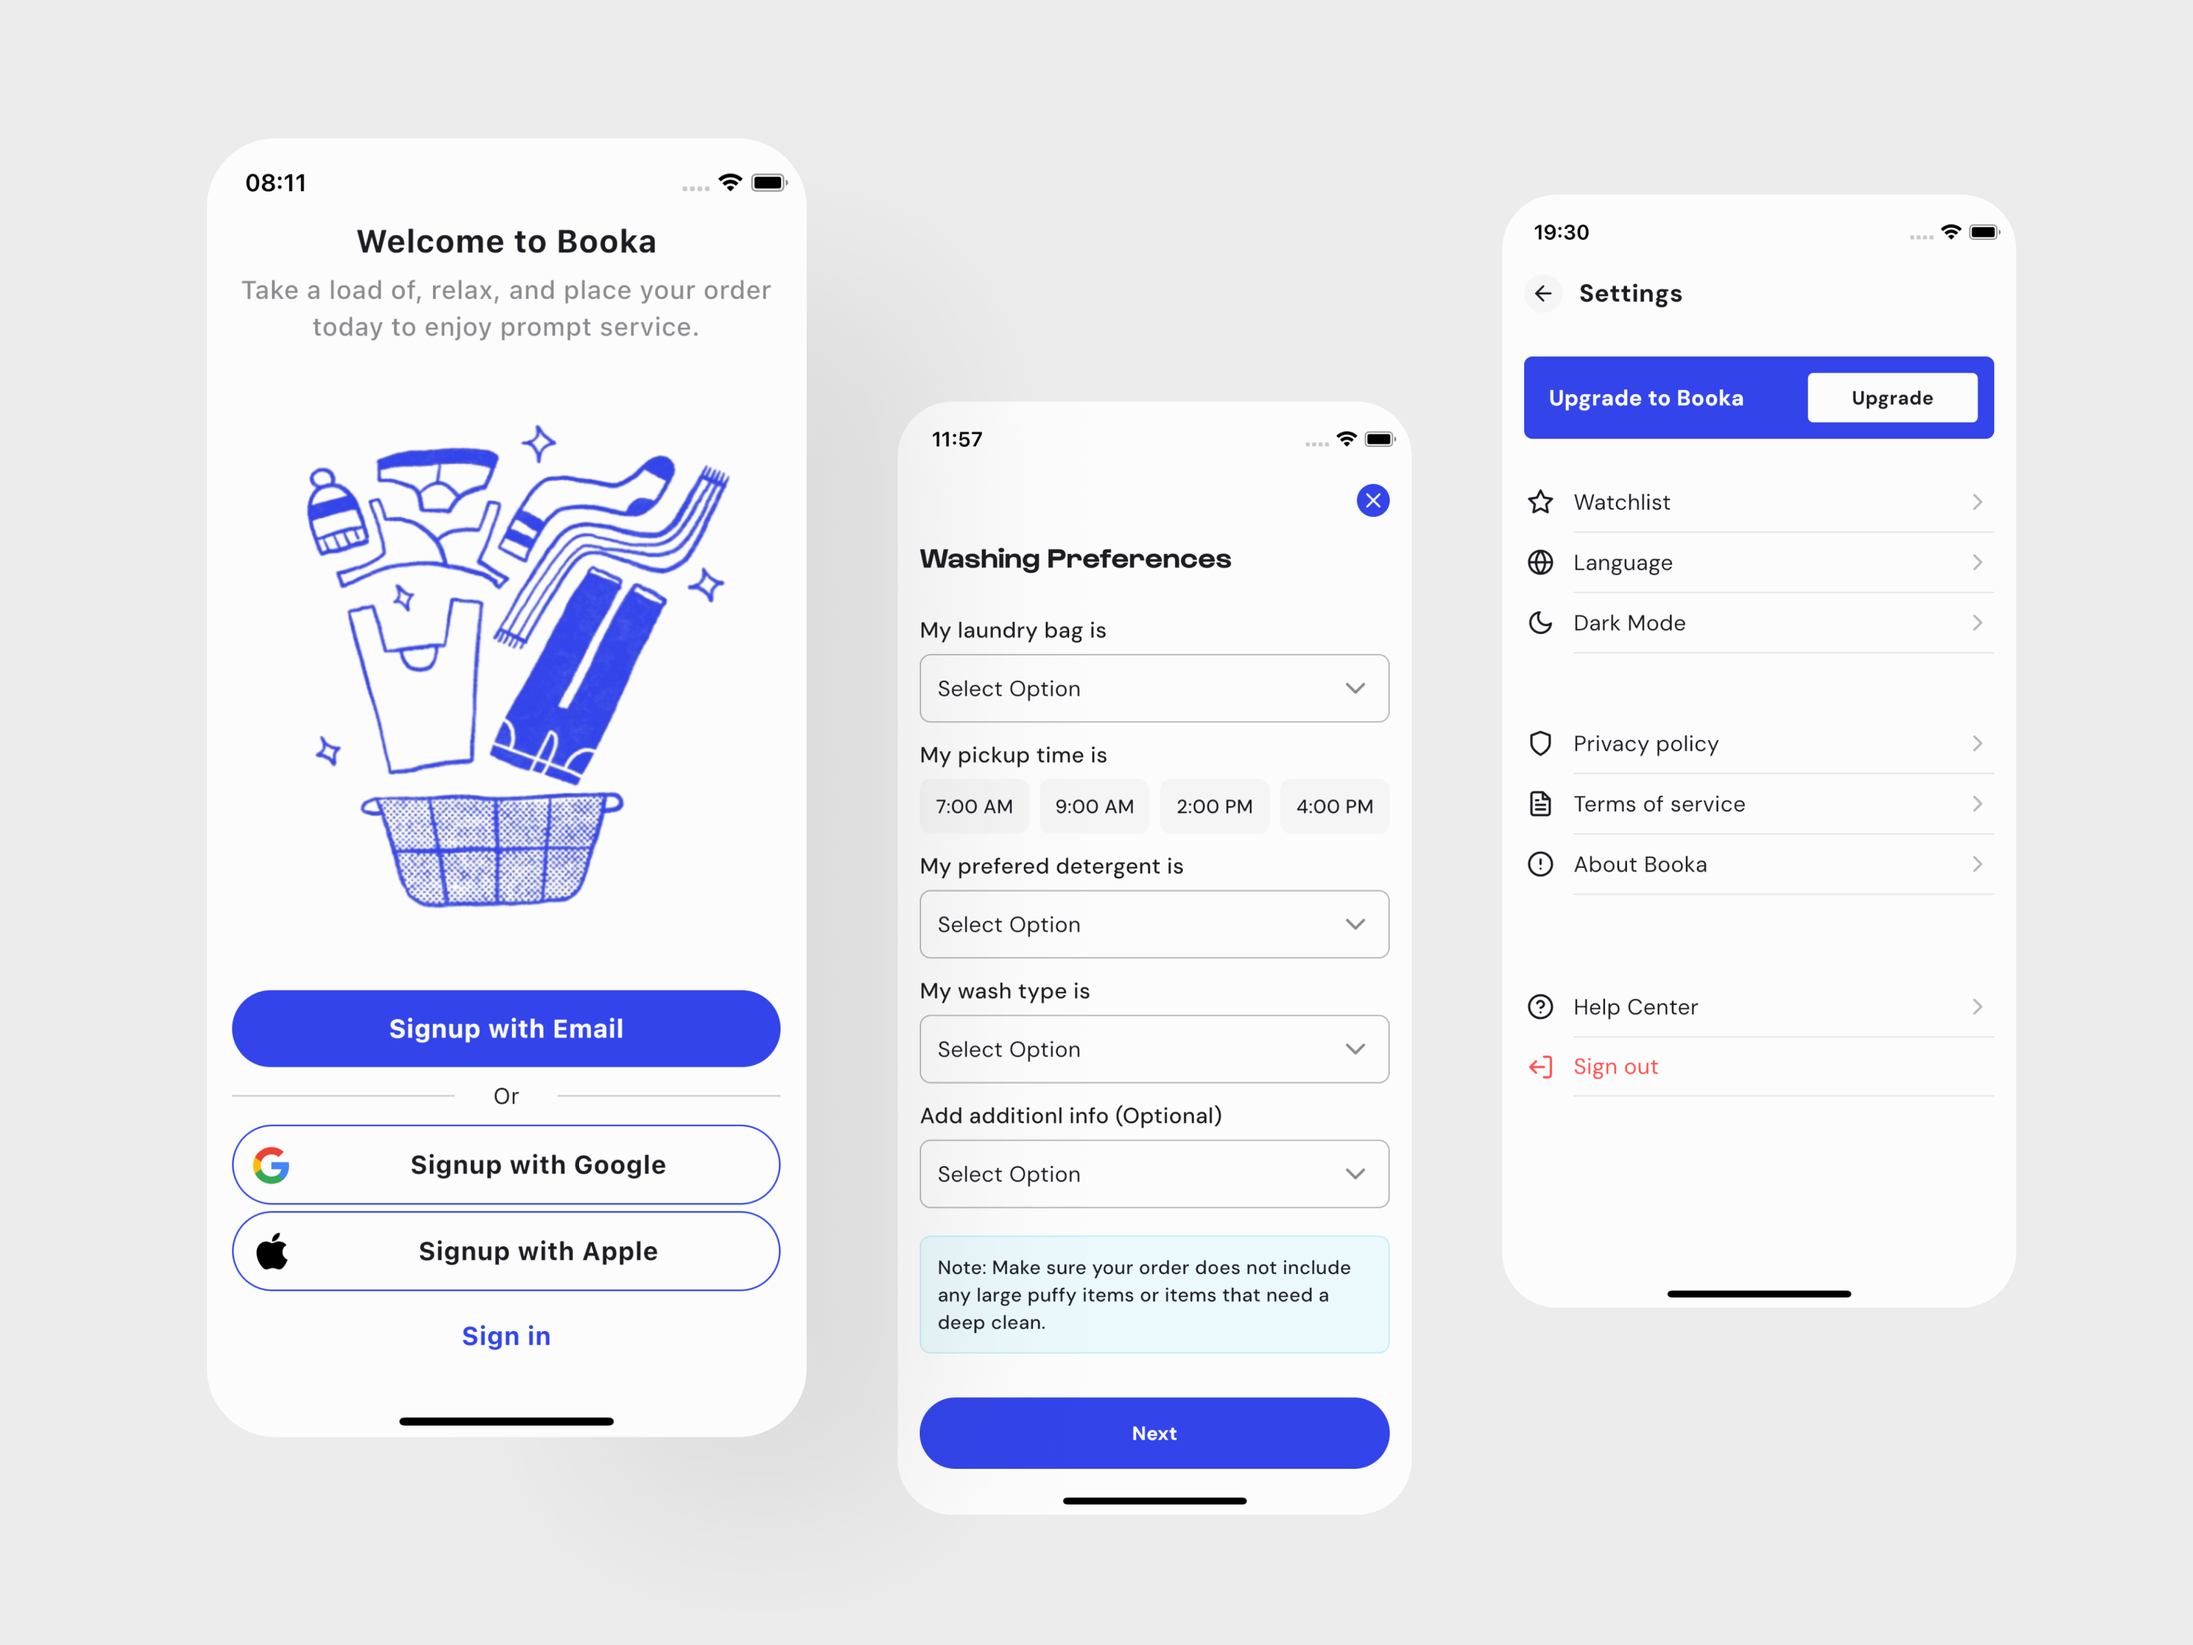
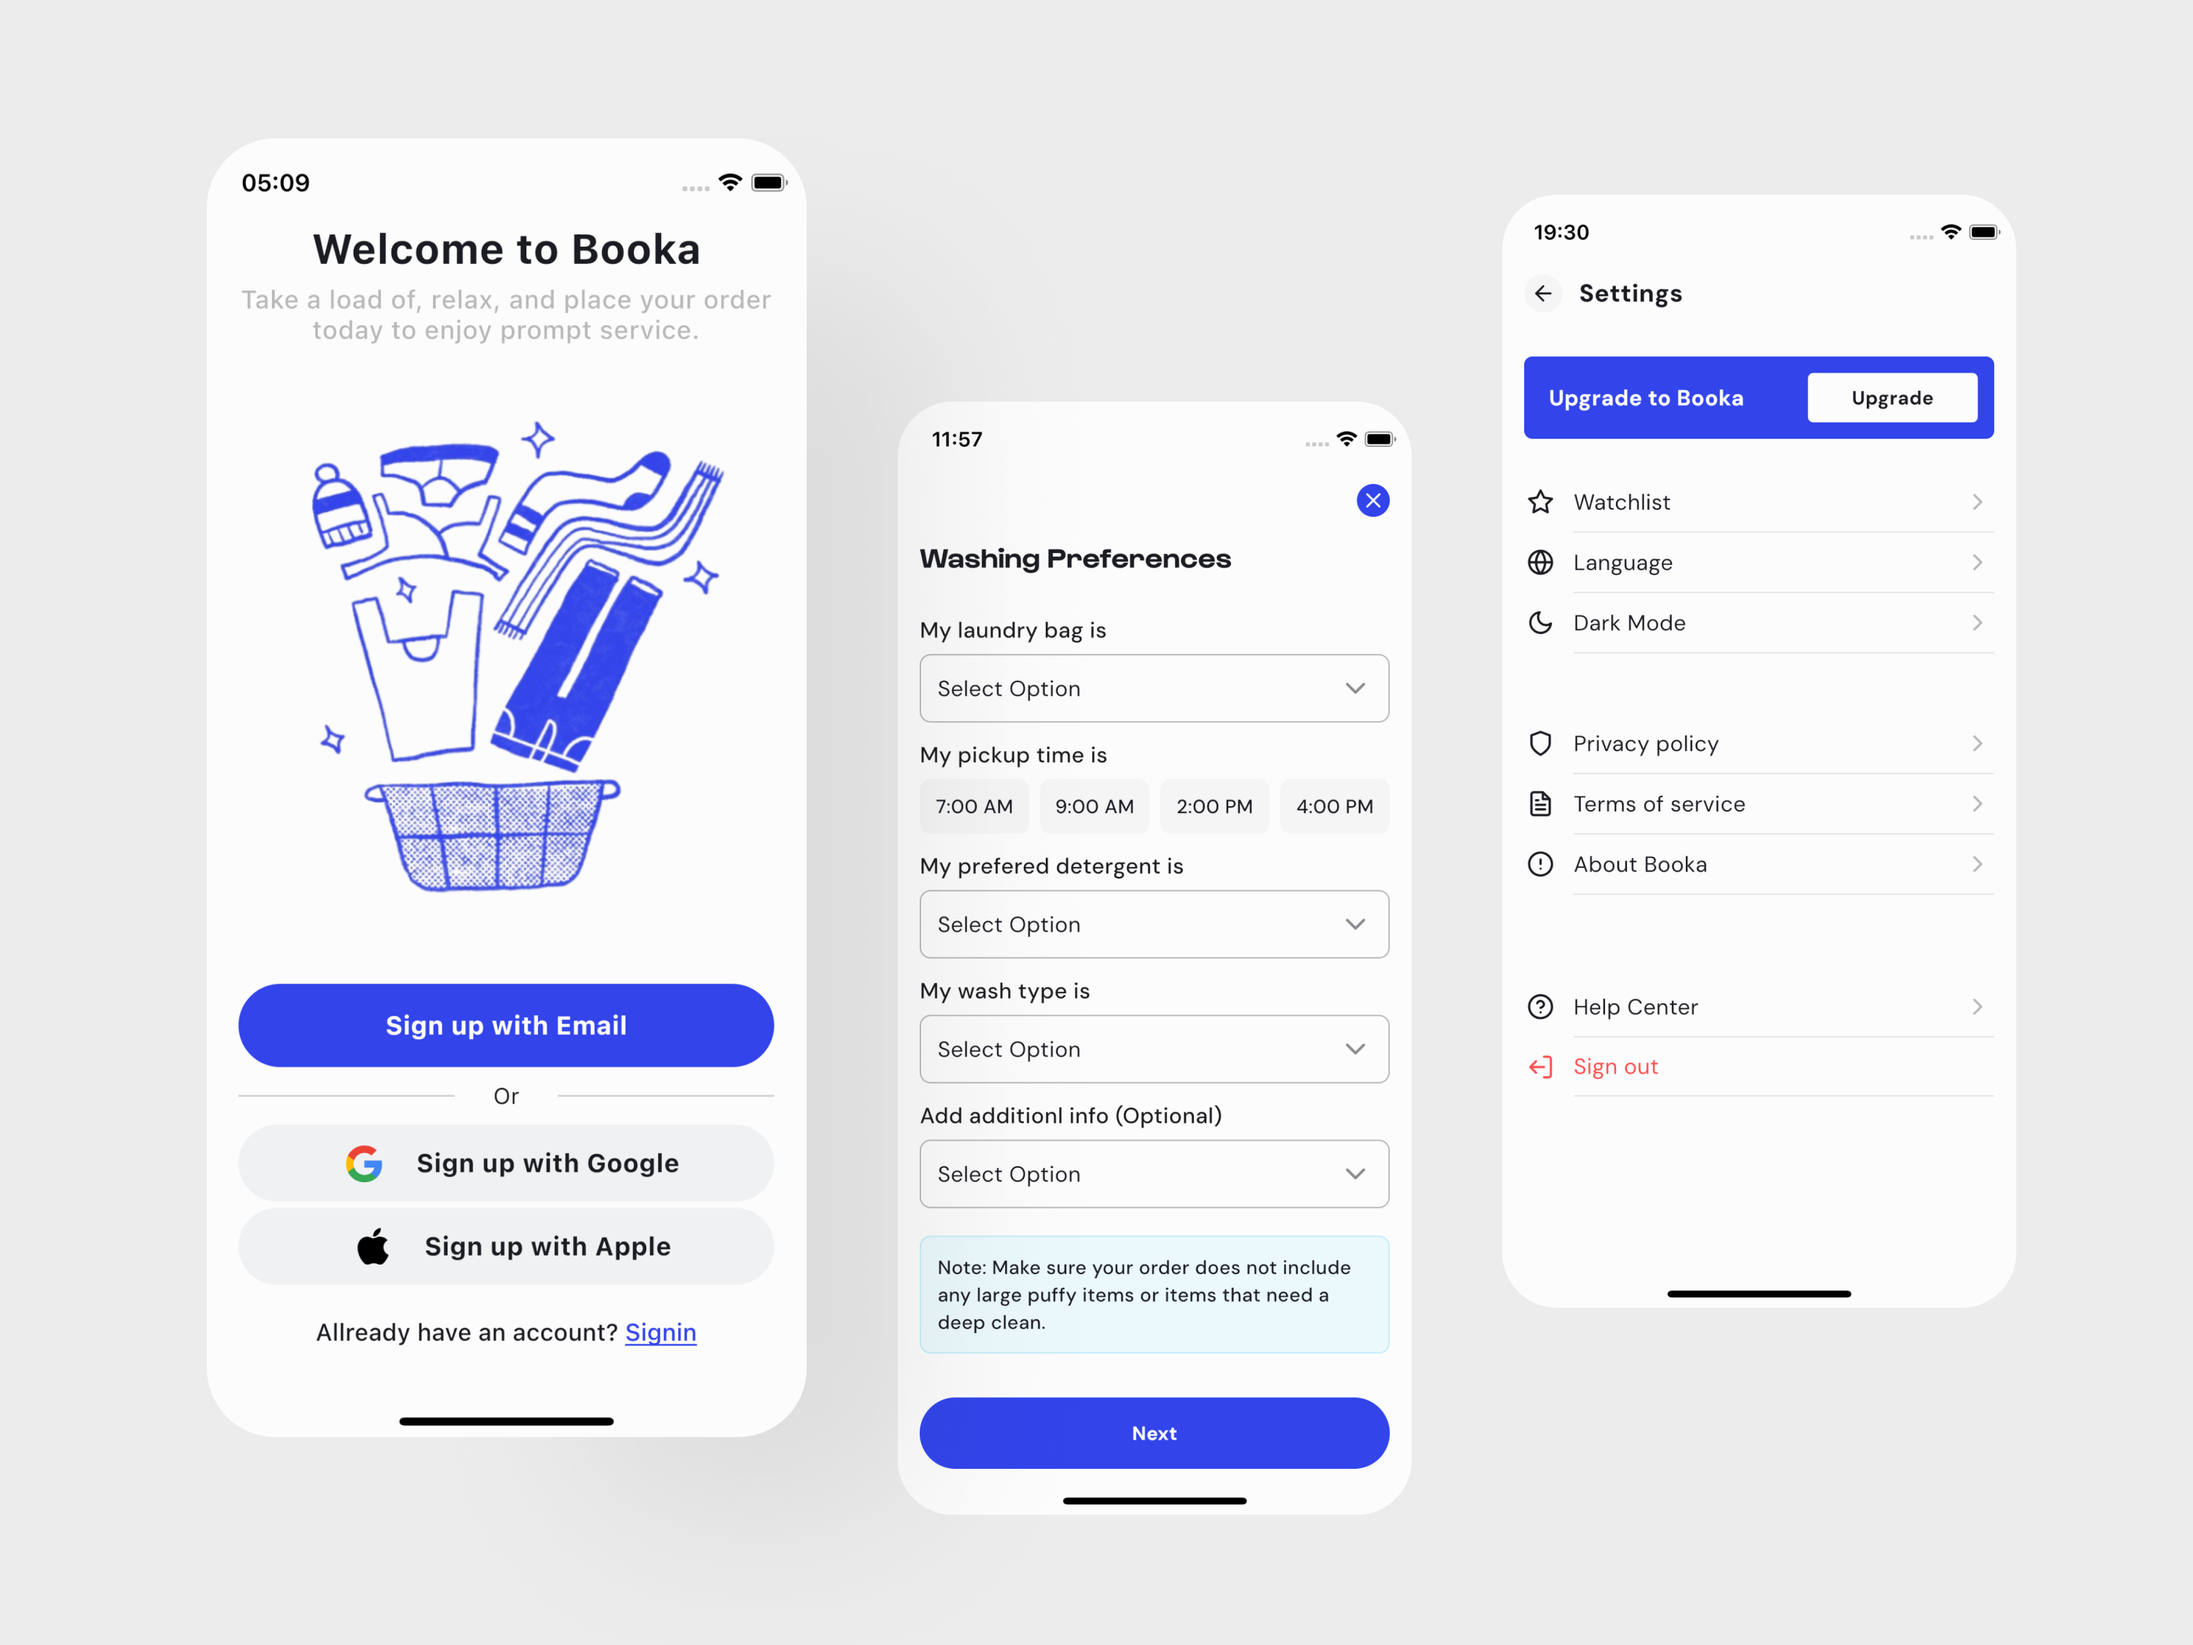
Update

diff --git a/lib/features/onboarding/presentation/pages/splash_page.dart b/lib/features/onboarding/presentation/pages/splash_page.dart
@@ -5,8 +5,8 @@ import 'package:booka_service_app/features/onboarding/presentation/widgets/apple
 import 'package:booka_service_app/features/onboarding/presentation/widgets/divider_section.dart';
 import 'package:booka_service_app/features/onboarding/presentation/widgets/email_button.dart';
 import 'package:booka_service_app/features/onboarding/presentation/widgets/google_button.dart';
-import 'package:booka_service_app/features/onboarding/presentation/widgets/signin_button.dart';
 import 'package:booka_service_app/features/signin/presentation/pages/signin_page.dart';
+import 'package:flutter/gestures.dart';
 import 'package:flutter/material.dart';
 
 class SplashPage extends StatelessWidget {
@@ -23,37 +23,29 @@ class SplashPage extends StatelessWidget {
             Expanded(
               child: Padding(
                 padding: EdgeInsets.only(
-                    left: 16, right: 16, bottom: 6, top: topPadding),
+                    left: 20, right: 20, bottom: 6, top: topPadding),
                 child: Column(
                   mainAxisAlignment: MainAxisAlignment.spaceBetween,
                   children: [
                     Column(
                       children: [
-                        Container(
-                          child: const Center(
-                            child: Text(
-                              'Welcome to Booka',
-                              style: TextStyle(
-                                fontSize: 20,
-                                fontWeight: FontWeight.bold,
-                                color: kColorBlack,
-                              ),
-                            ),
+                        const Text(
+                          'Welcome to Booka',
+                          style: TextStyle(
+                            fontSize: 26,
+                            fontWeight: FontWeight.bold,
+                            color: kColorBlack,
                           ),
                         ),
                         const SizedBox(height: 4),
-                        Container(
-                          child: Center(
-                            child: Text(
-                              'Take a load of, relax, and place your order today to enjoy prompt service.',
-                              style: TextStyle(
-                                fontSize: 16,
-                                fontWeight: FontWeight.w500,
-                                color: kColorBlack.withOpacity(0.5),
-                              ),
-                              textAlign: TextAlign.center,
-                            ),
-                          ),
+                        Text(
+                          'Take a load of, relax, and place your order today to enjoy prompt service.',
+                          style: TextStyle(
+                              fontSize: 16,
+                              fontWeight: FontWeight.w500,
+                              color: kColorBlack.withOpacity(0.3),
+                              height: 0),
+                          textAlign: TextAlign.center,
                         ),
                       ],
                     ),
@@ -76,8 +68,8 @@ class SplashPage extends StatelessWidget {
                     ),
                     const SizedBox(height: 12),
                     Column(
-                      mainAxisAlignment: MainAxisAlignment.end,
                       children: [
+                        const SizedBox(height: 8),
                         const EmailButton(),
                         const SizedBox(height: 8),
                         const DividerSection(),
@@ -86,11 +78,36 @@ class SplashPage extends StatelessWidget {
                         const SizedBox(height: 4),
                         const AppleButton(),
                         const SizedBox(height: 4),
-                        SigninButton(
-                          onTap: () {
-                            Navigator.of(context).push(MaterialPageRoute(
-                                builder: (context) => const SigninPage()));
-                          },
+                        SizedBox(
+                          height: 52,
+                          child: Center(
+                            child: RichText(
+                              text: TextSpan(
+                                style: const TextStyle(
+                                  fontSize: 15,
+                                  fontWeight: FontWeight.w500,
+                                  color: kColorBlack,
+                                ),
+                                text: 'Allready have an account? ',
+                                children: [
+                                  TextSpan(
+                                    recognizer: TapGestureRecognizer()
+                                      ..onTap = () {
+                                        Navigator.of(context).push(
+                                            MaterialPageRoute(
+                                                builder: (context) =>
+                                                    const SigninPage()));
+                                      },
+                                    text: 'Signin',
+                                    style: const TextStyle(
+                                      color: kColorWater,
+                                      decoration: TextDecoration.underline,
+                                    ),
+                                  ),
+                                ],
+                              ),
+                            ),
+                          ),
                         ),
                       ],
                     ),

diff --git a/lib/features/onboarding/presentation/widgets/google_button.dart b/lib/features/onboarding/presentation/widgets/google_button.dart
@@ -29,17 +29,15 @@ class GoogleButton extends StatelessWidget {
       },
       child: Container(
         decoration: BoxDecoration(
-            borderRadius: BorderRadius.circular(51),
-            border: Border.all(
-                strokeAlign: BorderSide.strokeAlignInside,
-                color: kColorWater,
-                width: 1)),
+          color: kColorDisabled,
+          borderRadius: BorderRadius.circular(51),
+        ),
         child: Padding(
           padding: const EdgeInsets.only(left: 4, right: 4, top: 4, bottom: 4),
           child: Row(
+            mainAxisAlignment: MainAxisAlignment.center,
             children: [
               Column(
-                mainAxisAlignment: MainAxisAlignment.center,
                 children: [
                   SizedBox(
                     height: 40,
@@ -50,18 +48,17 @@ class GoogleButton extends StatelessWidget {
                   ),
                 ],
               ),
-              const Expanded(
-                child: SizedBox(
-                  height: 40,
-                  child: Align(
-                    alignment: Alignment.center,
-                    child: Text(
-                      'Signup with Google',
-                      style: TextStyle(
-                        fontSize: 16,
-                        fontWeight: FontWeight.bold,
-                        color: kColorBlack,
-                      ),
+              const SizedBox(width: 12),
+              const SizedBox(
+                height: 40,
+                child: Align(
+                  alignment: Alignment.center,
+                  child: Text(
+                    'Sign up with Google',
+                    style: TextStyle(
+                      fontSize: 16,
+                      fontWeight: FontWeight.bold,
+                      color: kColorBlack,
                     ),
                   ),
                 ),

diff --git a/lib/features/onboarding/presentation/widgets/apple_button.dart b/lib/features/onboarding/presentation/widgets/apple_button.dart
@@ -11,19 +11,15 @@ class AppleButton extends StatelessWidget {
   Widget build(BuildContext context) {
     return Container(
       decoration: BoxDecoration(
+        color: kColorDisabled,
         borderRadius: BorderRadius.circular(51),
-        border: Border.all(
-          strokeAlign: BorderSide.strokeAlignInside,
-          color: kColorWater,
-          width: 1,
-        ),
       ),
       child: Padding(
         padding: const EdgeInsets.only(left: 4, right: 4, top: 4, bottom: 4),
         child: Row(
+          mainAxisAlignment: MainAxisAlignment.center,
           children: [
             Column(
-              mainAxisAlignment: MainAxisAlignment.center,
               children: [
                 SizedBox(
                   height: 40,
@@ -34,18 +30,17 @@ class AppleButton extends StatelessWidget {
                 ),
               ],
             ),
-            const Expanded(
-              child: SizedBox(
-                height: 40,
-                child: Align(
-                  alignment: Alignment.center,
-                  child: Text(
-                    'Signup with Apple',
-                    style: TextStyle(
-                      fontSize: 16,
-                      fontWeight: FontWeight.bold,
-                      color: kColorBlack,
-                    ),
+            const SizedBox(width: 12),
+            const SizedBox(
+              height: 40,
+              child: Align(
+                alignment: Alignment.center,
+                child: Text(
+                  'Sign up with Apple',
+                  style: TextStyle(
+                    fontSize: 16,
+                    fontWeight: FontWeight.bold,
+                    color: kColorBlack,
                   ),
                 ),
               ),

diff --git a/lib/features/onboarding/presentation/widgets/email_button.dart b/lib/features/onboarding/presentation/widgets/email_button.dart
@@ -20,7 +20,7 @@ class EmailButton extends StatelessWidget {
           color: kColorWater,
         ),
         child: const Padding(
-          padding: EdgeInsets.all(4.0),
+          padding: EdgeInsets.all(6.0),
           child: Row(
             children: [
               Expanded(
@@ -29,7 +29,7 @@ class EmailButton extends StatelessWidget {
                   child: Align(
                     alignment: Alignment.center,
                     child: Text(
-                      'Signup with Email',
+                      'Sign up with Email',
                       style: TextStyle(
                         fontSize: 16,
                         fontWeight: FontWeight.bold,

diff --git a/lib/features/onboarding/presentation/widgets/signin_button.dart b/lib/features/onboarding/presentation/widgets/signin_button.dart
@@ -22,11 +22,11 @@ class SigninButton extends StatelessWidget {
                 child: Align(
                   alignment: Alignment.center,
                   child: Text(
-                    'Sign in',
+                    'Allready have an account? Sign in',
                     style: TextStyle(
-                      fontSize: 16,
+                      fontSize: 14,
                       fontWeight: FontWeight.bold,
-                      color: kColorWater,
+                      color: kColorBlack,
                     ),
                   ),
                 ),
